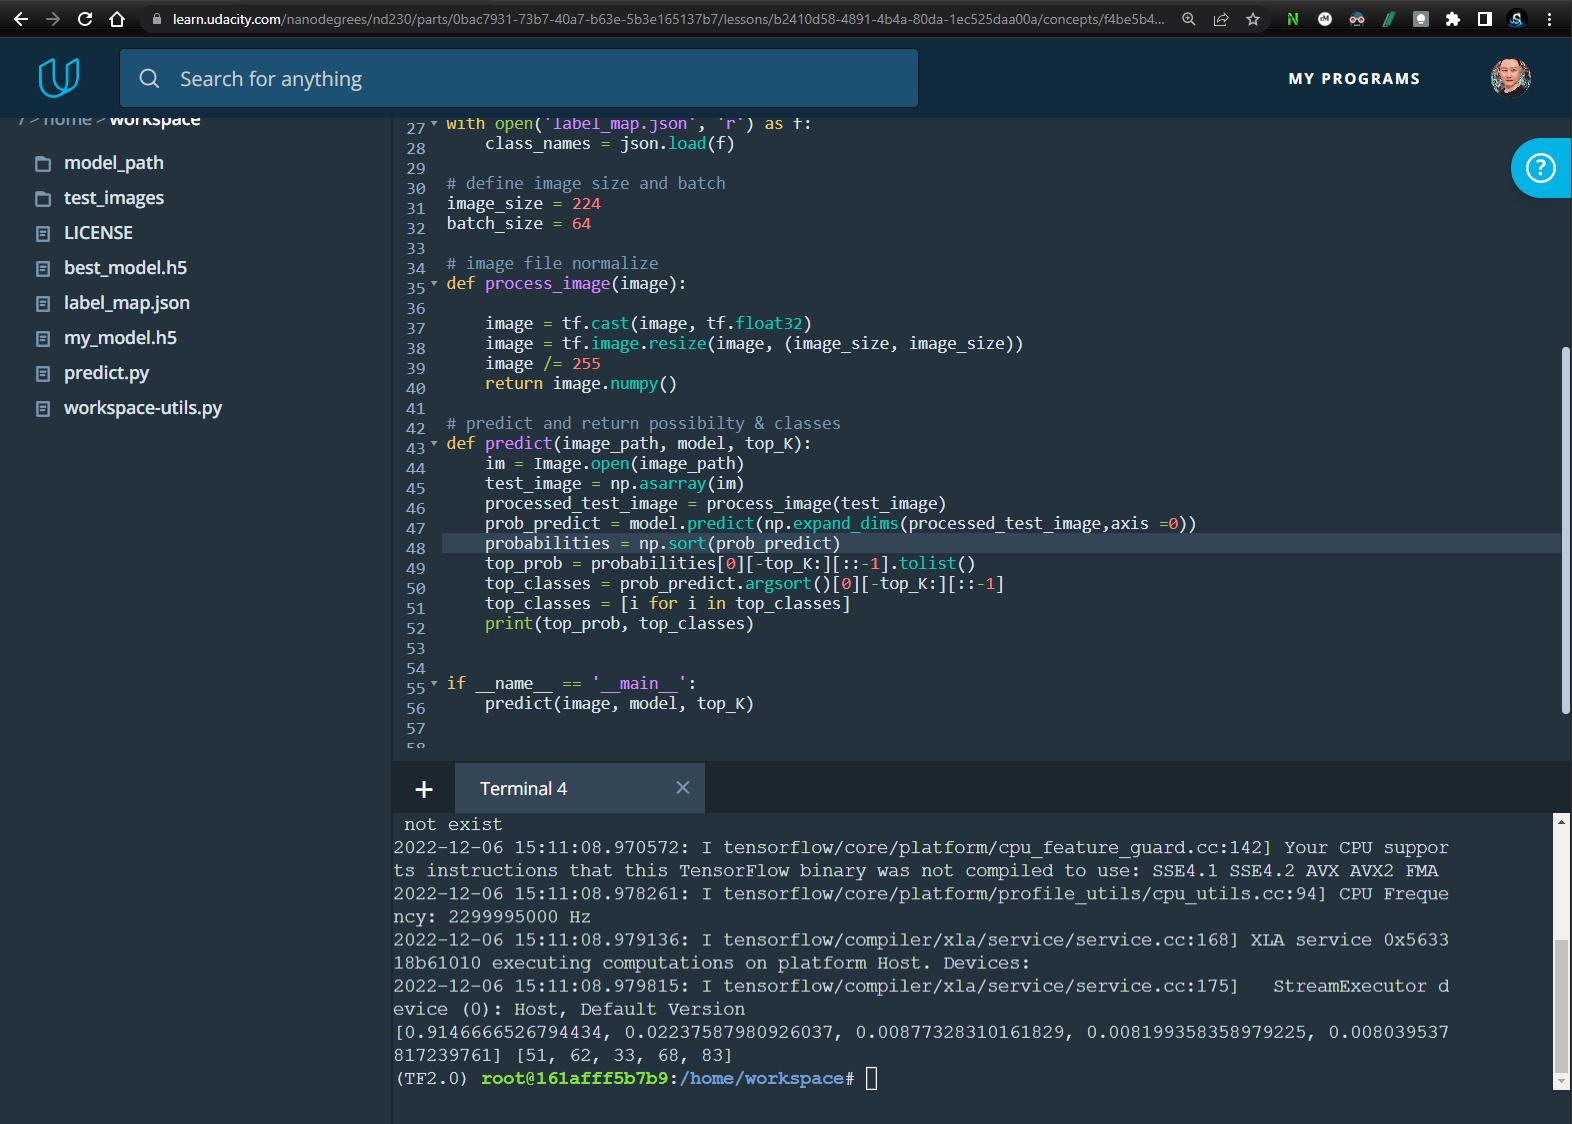
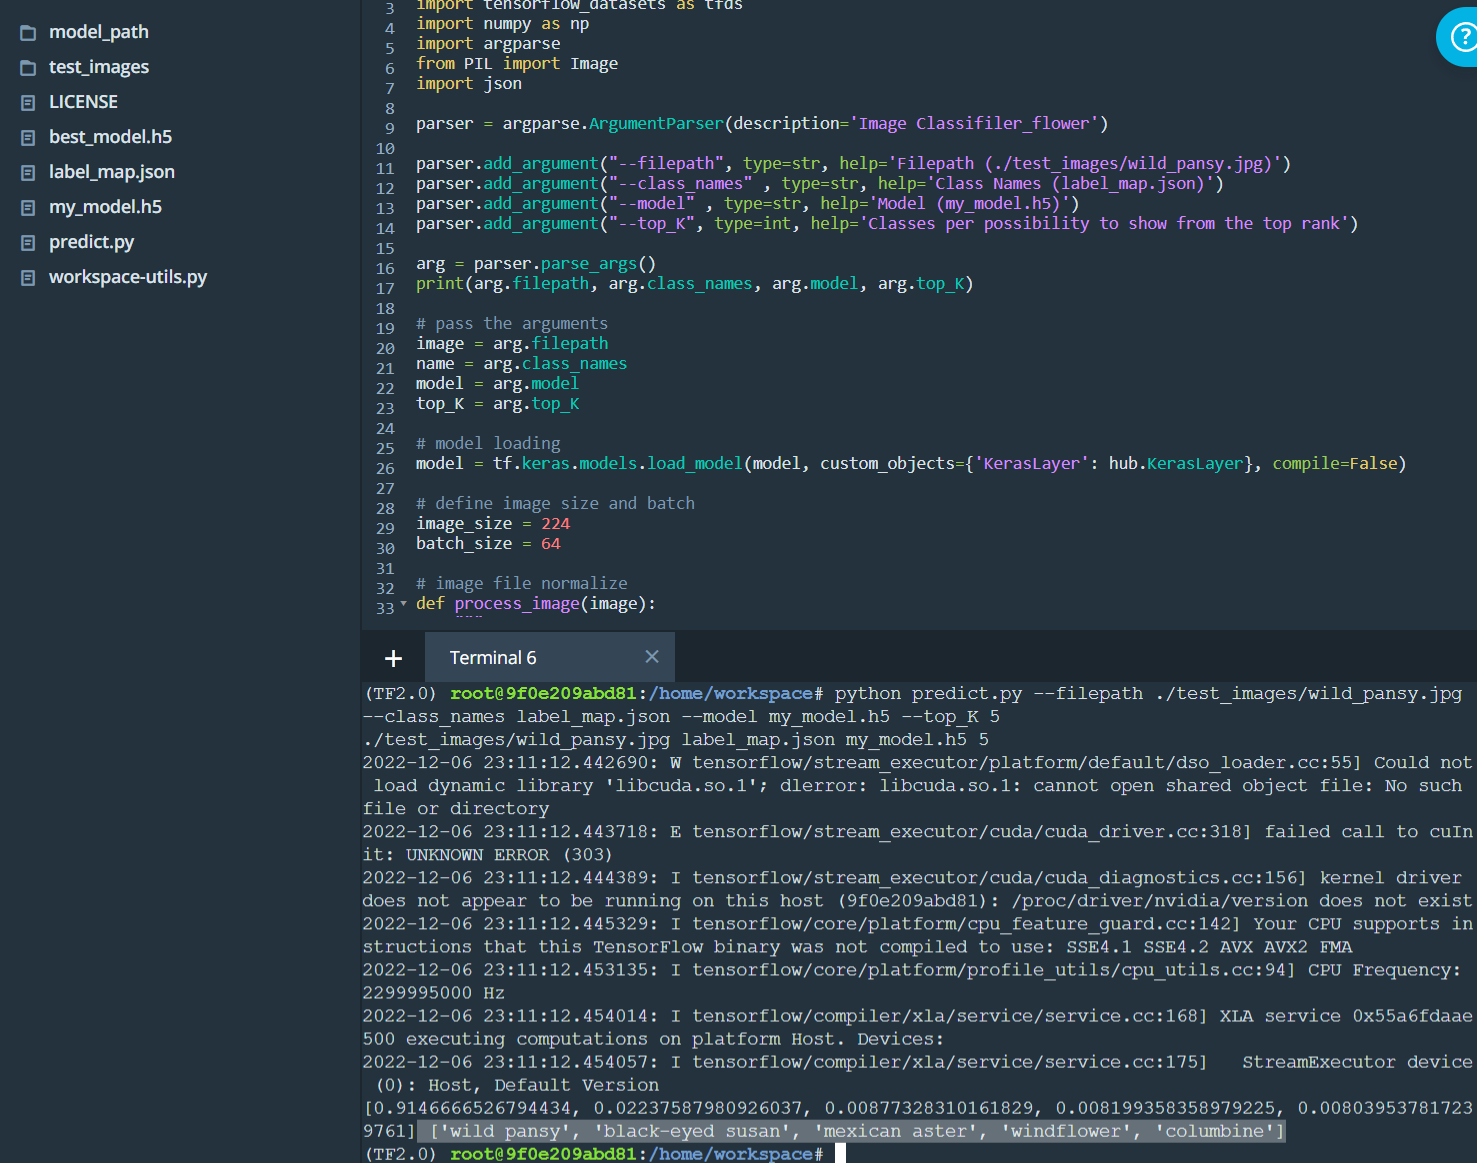
Add files via upload

diff --git a/Project_Image Classifer_Flower/predict.py b/Project_Image Classifer_Flower/predict.py
@@ -9,23 +9,21 @@ import json
 parser = argparse.ArgumentParser(description='Image Classifiler_flower')
 
 parser.add_argument("--filepath", type=str, help='Filepath (./test_images/wild_pansy.jpg)')
+parser.add_argument("--class_names" , type=str, help='Class Names (label_map.json)')
 parser.add_argument("--model" , type=str, help='Model (my_model.h5)')
 parser.add_argument("--top_K", type=int, help='Classes per possibility to show from the top rank')
 
 arg = parser.parse_args()
-print(arg.filepath, arg.model, arg.top_K)
+print(arg.filepath, arg.class_names, arg.model, arg.top_K)
 
 # pass the arguments
 image = arg.filepath
+name = arg.class_names
 model = arg.model
 top_K = arg.top_K
 
 # model loading
 model = tf.keras.models.load_model(model, custom_objects={'KerasLayer': hub.KerasLayer}, compile=False)
-
-# get class names from json file
-with open('label_map.json', 'r') as f:
-    class_names = json.load(f)
 
 # define image size and batch
 image_size = 224
@@ -33,14 +31,17 @@ batch_size = 64
     
 # image file normalize 
 def process_image(image):
-    
+    """
+    input: original pixel image
+    output: process pixel image by the image_size    
+    """    
     image = tf.cast(image, tf.float32)
     image = tf.image.resize(image, (image_size, image_size))
     image /= 255
     return image.numpy()
 
 # predict and return possibilty & classes 
-def predict(image_path, model, top_K):
+def predict(image_path, name, model, top_K):
     im = Image.open(image_path)
     test_image = np.asarray(im)
     processed_test_image = process_image(test_image)
@@ -49,11 +50,17 @@ def predict(image_path, model, top_K):
     top_prob = probabilities[0][-top_K:][::-1].tolist()
     top_classes = prob_predict.argsort()[0][-top_K:][::-1]
     top_classes = [i for i in top_classes]
-    print(top_prob, top_classes)
+        
+    # get class names from json file
+    with open(name, 'r') as f:
+        class_names = json.load(f)
+    
+    class_name = [class_names[str(label + 1)] for label in top_classes]
+    print(top_prob, class_name)
 
     
 if __name__ == '__main__':
-    predict(image, model, top_K)
+    predict(image, name, model, top_K)
 
 
 
